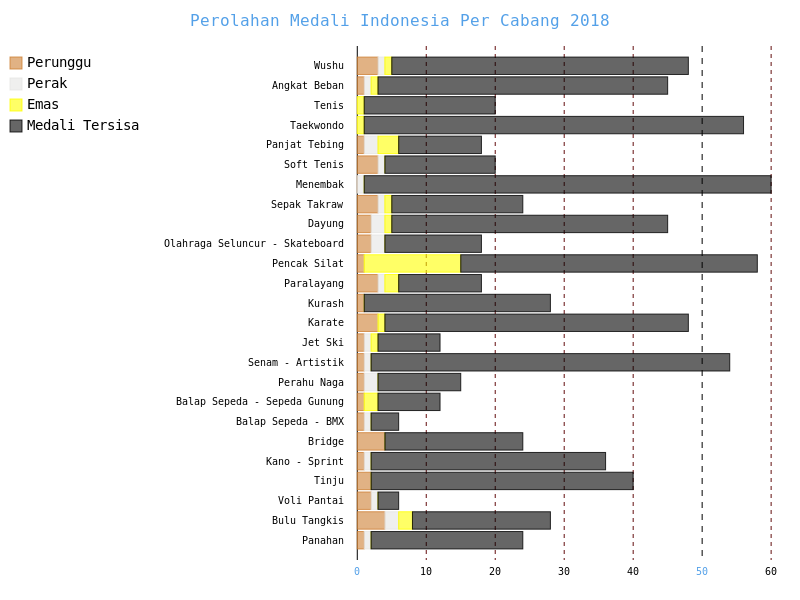
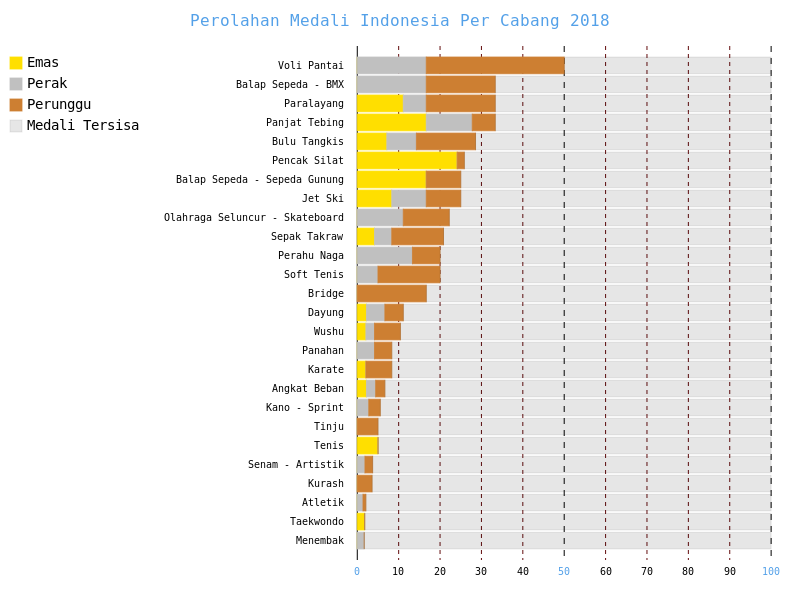
Change color to rgba, sorted sports chart, change sport chart to percentage

diff --git a/src/visualization.py b/src/visualization.py
@@ -90,35 +90,50 @@ class IndonesiaSports2018Chart(BaseChart):
         '''
         pass
 
+    def fill_data(self):
+        
+        # draw using the json data
+        sport_names = []
+        golds, silvers, bronzes = [], [], []
+        rest = []
+        for sports in self.shown_data:
+            sport_name = sports['Cabor']
+            medals = sports['Medali']
+
+            total = int(medals["Total Seluruh Medali"])
+            gold = (int(medals['Emas']) / total) * 100
+            silver = (int(medals['Perak']) / total) * 100
+            bronze = (int(medals['Perunggu']) / total) * 100
+
+            rest_medal = 100 - (gold + silver + bronze)
+
+            idx = 0
+            while idx < len(rest):
+                if rest[idx] > rest_medal:
+                    idx += 1
+                else:
+                    break
+                
+            sport_names.insert(idx, sport_name)
+            golds.insert(idx, gold)
+            silvers.insert(idx, silver)
+            bronzes.insert(idx, bronze)
+            rest.insert(idx, rest_medal)
+        
+        return golds, silvers, bronzes, rest, sport_names
+
     
     def draw(self):
 
         self.chart = pygal.HorizontalStackedBar(style=self.style, fill=True)
         self.chart.title = self.title
 
-        # draw using the json data
-        sport_names = []
-        golds, silvers, bronzes = [], [], []
-        rest = []
-        for sports in self.shown_data:
-            if not sports['Cabor'] == "Atletik":
-                sport_names.append(sports['Cabor'])
-                medals = sports['Medali']
-
-                gold = int(medals['Emas'])
-                silver = int(medals['Perak'])
-                bronze = int(medals['Perunggu'])
-                rest_medal = int(medals["Total Seluruh Medali"]) - (gold + silver + bronze)
-
-                golds.append(gold)
-                silvers.append(silver)
-                bronzes.append(bronze)
-                rest.append(rest_medal)
+        golds, silvers, bronzes, rest, sport_names = self.fill_data()
 
         self.chart.x_labels = sport_names
-        self.chart.add('Perunggu', bronzes)
-        self.chart.add('Perak', silvers)
         self.chart.add('Emas', golds)
+        self.chart.add('Perak', silvers)
+        self.chart.add('Perunggu', bronzes)
         self.chart.add('Medali Tersisa', rest)
 
 
@@ -200,10 +215,9 @@ if __name__ == '__main__':
         foreground='#000000',
         foreground_strong='#53A0E8',
         foreground_subtle='#630C0D',
-        opacity='.6',
-        opacity_hover='.9',
+        opacity=1,
         transition='400ms ease-in',
-        colors=('#cd7f32', '#e5e4e2', '#ffff00', '#000000', '#E89B53'),
+        colors=('rgba(255,223,0,1)', 'rgba(192,192,192,1)', 'rgba(205,127,50,1)', 'rgba(0,0,0,0.1)'),
     )
 
     host_style = Style(
